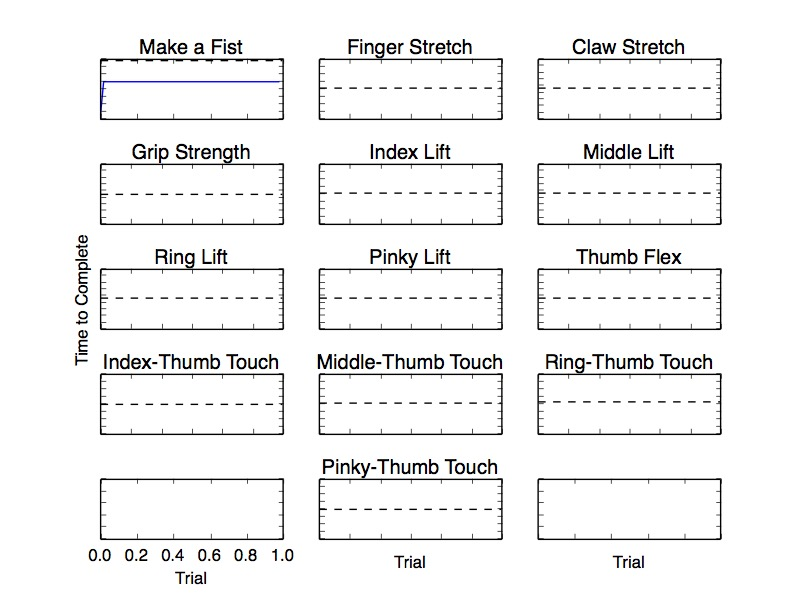
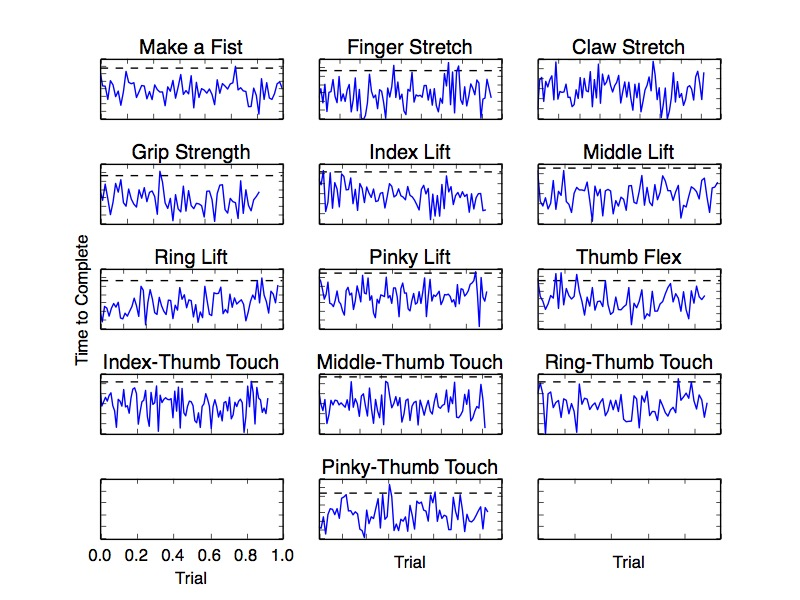
plots writing to db

diff --git a/cloud/server.py b/cloud/server.py
@@ -13,8 +13,7 @@ import matplotlib.pyplot as plt
 import smtplib
 from email.MIMEMultipart import MIMEMultipart
 from email.MIMEText import MIMEText
-
-
+from email.MIMEImage import MIMEImage
 
 app = Flask(__name__)
 
@@ -45,21 +44,22 @@ def add_to_dbase(pain, succ, time, ex):
     dbase.ix[len(t)] = [int(pain), int(succ), float(time), int(ex)]
     dbase.to_csv('dbase.csv')
 
-def write_email():
+def write_email(e):
     fromaddr = "alivaria420@gmail.com"
-    toaddr = "tomas.vega@berkeley.edu"
+    toaddr = "leonardinodigma@gmail.com"
     msg = MIMEMultipart()
     msg['From'] = fromaddr
     msg['To'] = toaddr
     msg['Subject'] = "alivaria"
     body = "\
-    Hello: \n\n We have been recording performance on hand exercises from Chance the Rapper. The data is suggesting that their performance on some exercises is degrading, which may be early signs of Rheumatoid Arthritis. \n\n The exercises that Chance are failing to complete at the standard of healthy controls are Exercise 1 and 2. The instructions for these tasks can be viewed below. \n \
+    Hello: \n\n We have been recording performance on hand exercises from Chance the Rapper. The data is suggesting that their performance on some exercises is degrading, which may be early signs of Rheumatoid Arthritis. \n\n The exercises that Chance are failing to complete at the standard of healthy controls is Exercise %s. The instructions for these tasks can be viewed below. \n \
     \n \
     \n \
     Best,\n \
     The Alivaria Team \n \n \n \
-    "
+    " % (e)
     msg.attach(MIMEText(body, 'plain'))
+    msg.attach(MIMEImage(file("final_figs/ex%s.jpg" % (str(e))).read()))
     server = smtplib.SMTP('smtp.gmail.com', 587)
     server.starttls()
     server.login(fromaddr, 'password420')
@@ -69,45 +69,37 @@ def write_email():
     print 'email sent'
 
 
-
 def is_consis_fail(e):
     db = check_cols(pd.read_csv('dbase.csv'))
     if float(e) not in db.ex.values:
-        print 'returning false'
         return False
-    print 'not first'
     exer = db[db.ex == float(e)]
-    print 'exer ',  exer
     if len(exer) < 3:
-        print 'less than three'
         return False
     succs = exer['success'].values
-    print succs
     last_three = [succs[-3], succs[-2], succs[-1]]
-    print 'len: ', len(last_three)
     if 1 in last_three:
         return False
     return True
 
 # Generate Plot
-def prog():
+def plot_prog():
     ex_map = {0: 'Make a Fist', 1: 'Finger Stretch', 2: 'Claw Stretch', \
     3: 'Grip Strength', 4: 'Index Lift', 5: 'Middle Lift', \
     6: 'Ring Lift', 7: 'Pinky Lift', 8: 'Thumb Flex', \
     9: 'Index-Thumb Touch', 10: 'Middle-Thumb Touch', 11: 'Ring-Thumb Touch', \
     12: 'Pinky-Thumb Touch'}
 
-
-    calib, dbase = check_cols(pd.read_csv('dummy_calibration.csv')), check_cols(pd.read_csv('dbase.csv'))
+    calib, dbase = check_cols(pd.read_csv('dummy_calibration.csv')), check_cols(pd.read_csv('dummy_dbase.csv'))
     mu, sig = np.mean(calib['time']), np.std(calib['time'])
     thresh = mu + (2 * sig)
     f, axarr = plt.subplots(nrows=5, ncols=3)
     for ind in range(15):
-        r, c = ind / 3, ind % 3
         ex_dat = dbase[dbase.ex == ind]
-        pain_dat, comp_dat, time_dat = ex_dat['pain'], ex_dat['success'], ex_dat['time']
+        time_dat = ex_dat['time'].values
         mu_time = np.mean(time_dat)
         calib_time = calib[calib.ex == ind]['time']
+        r, c = ind / 3, ind % 3
         if ind == 13:
             axarr[r, c].set_xlabel('Trial')
             axarr[r, c].set_xticklabels([])
@@ -136,15 +128,6 @@ def prog():
     return False
 
 
-# all_dat = pd.DataFram()
-# columns = 
-# for col in columns:
-#     dbase[col] = [0.0]
-
-def add_to_all(pain, fing, ex, succ):
-    return False
-
-
 @app.route('/data', methods=['POST'])
 def data():
     params = request.form
@@ -158,12 +141,36 @@ def data():
     print "Time: " + str(time)
     print "Success: " + str(success)
     print "Pain: " + str(pain)
-    print 'about to add'
     add_to_dbase(pain, success, time, exercise)
-    # if is_consis_fail(exercise):
-    #     write_email()
-    # prog()
+    if is_consis_fail(exercise):
+        write_email(exercise)
+    # Only if 
+    plot_prog()
     return jsonify(result={"status": 200})
+
+
+def allowed_file(filename):
+    return '.' in filename and \
+           filename.rsplit('.', 1)[1] in ALLOWED_EXTENSIONS
+
+@app.route('/', methods=['GET', 'POST'])
+def upload_file():
+    if request.method == 'POST':
+        file = request.files['file']
+        if file and allowed_file(file.filename):
+            filename = secure_filename(file.filename)
+            file.save(os.path.join(app.config['UPLOAD_FOLDER'], filename))
+            return redirect(url_for('uploaded_file',
+                                    filename=filename))
+    return '''
+    <!doctype html>
+    <title>Upload new File</title>
+    <h1>Upload new File</h1>
+    <form action="" method=post enctype=multipart/form-data>
+      <p><input type=file name=file>
+         <input type=submit value=Upload>
+    </form>
+    '''
 
 
 
